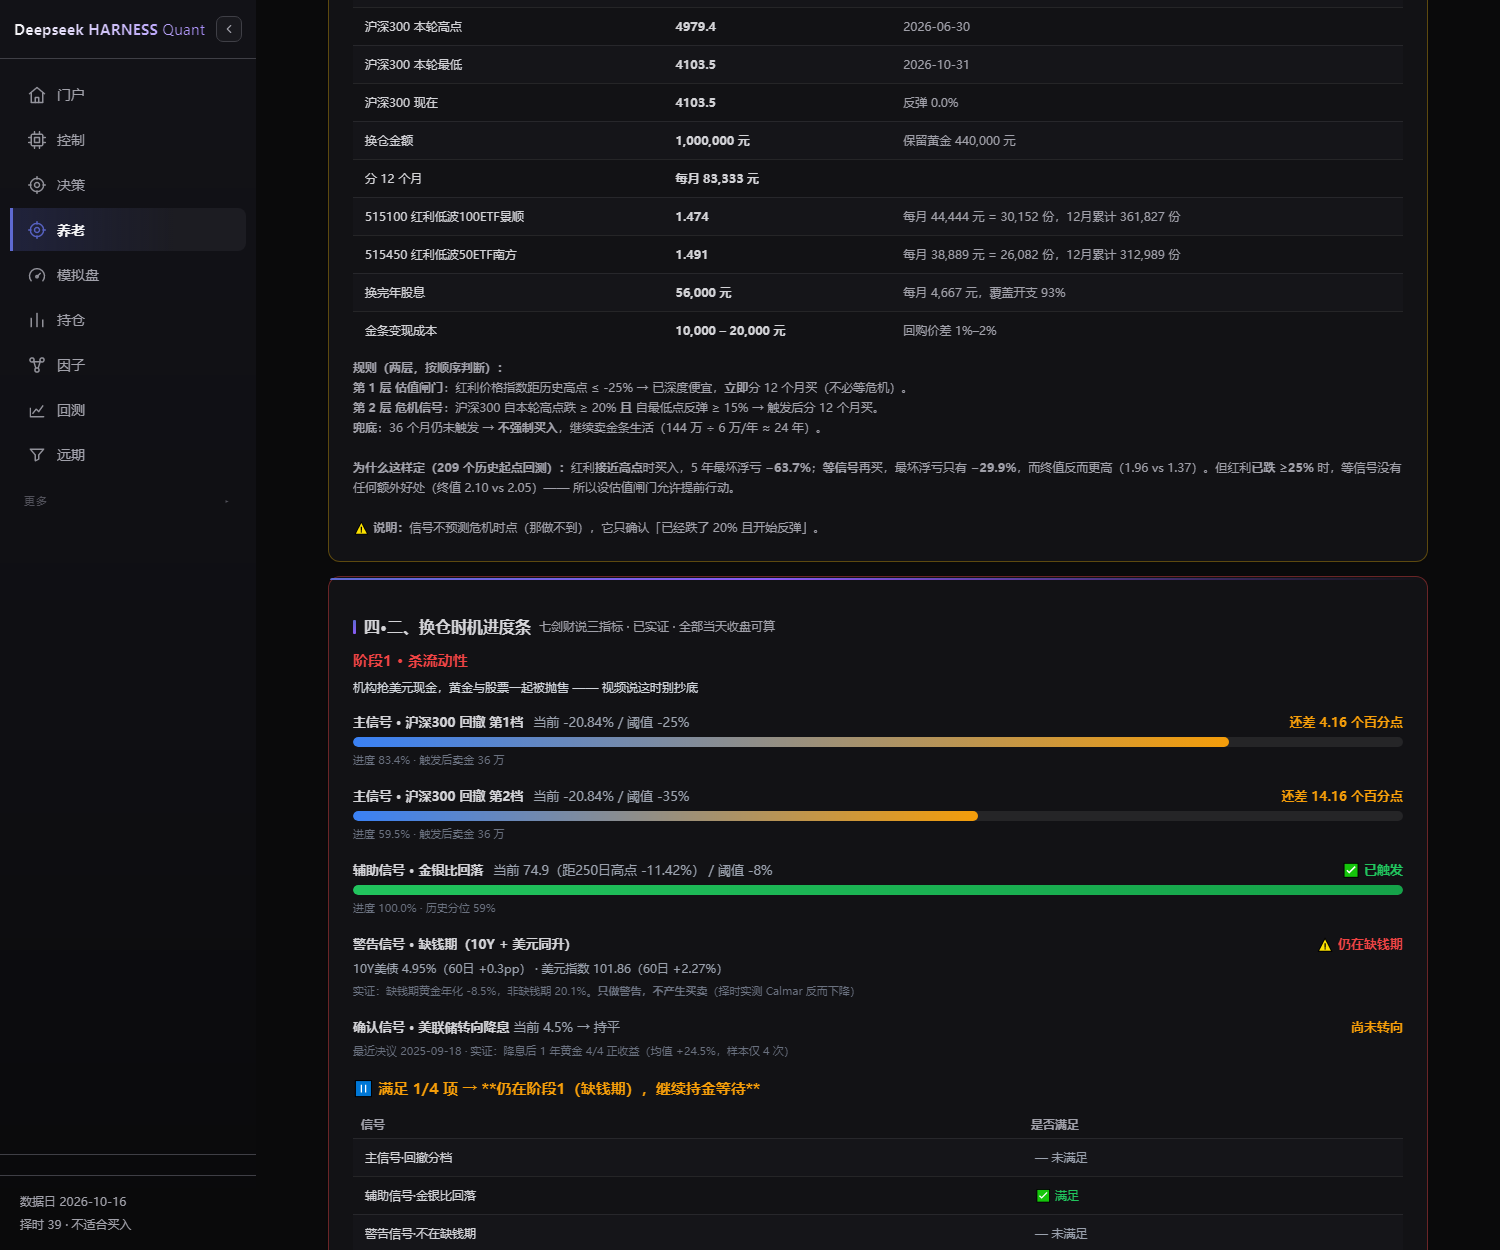
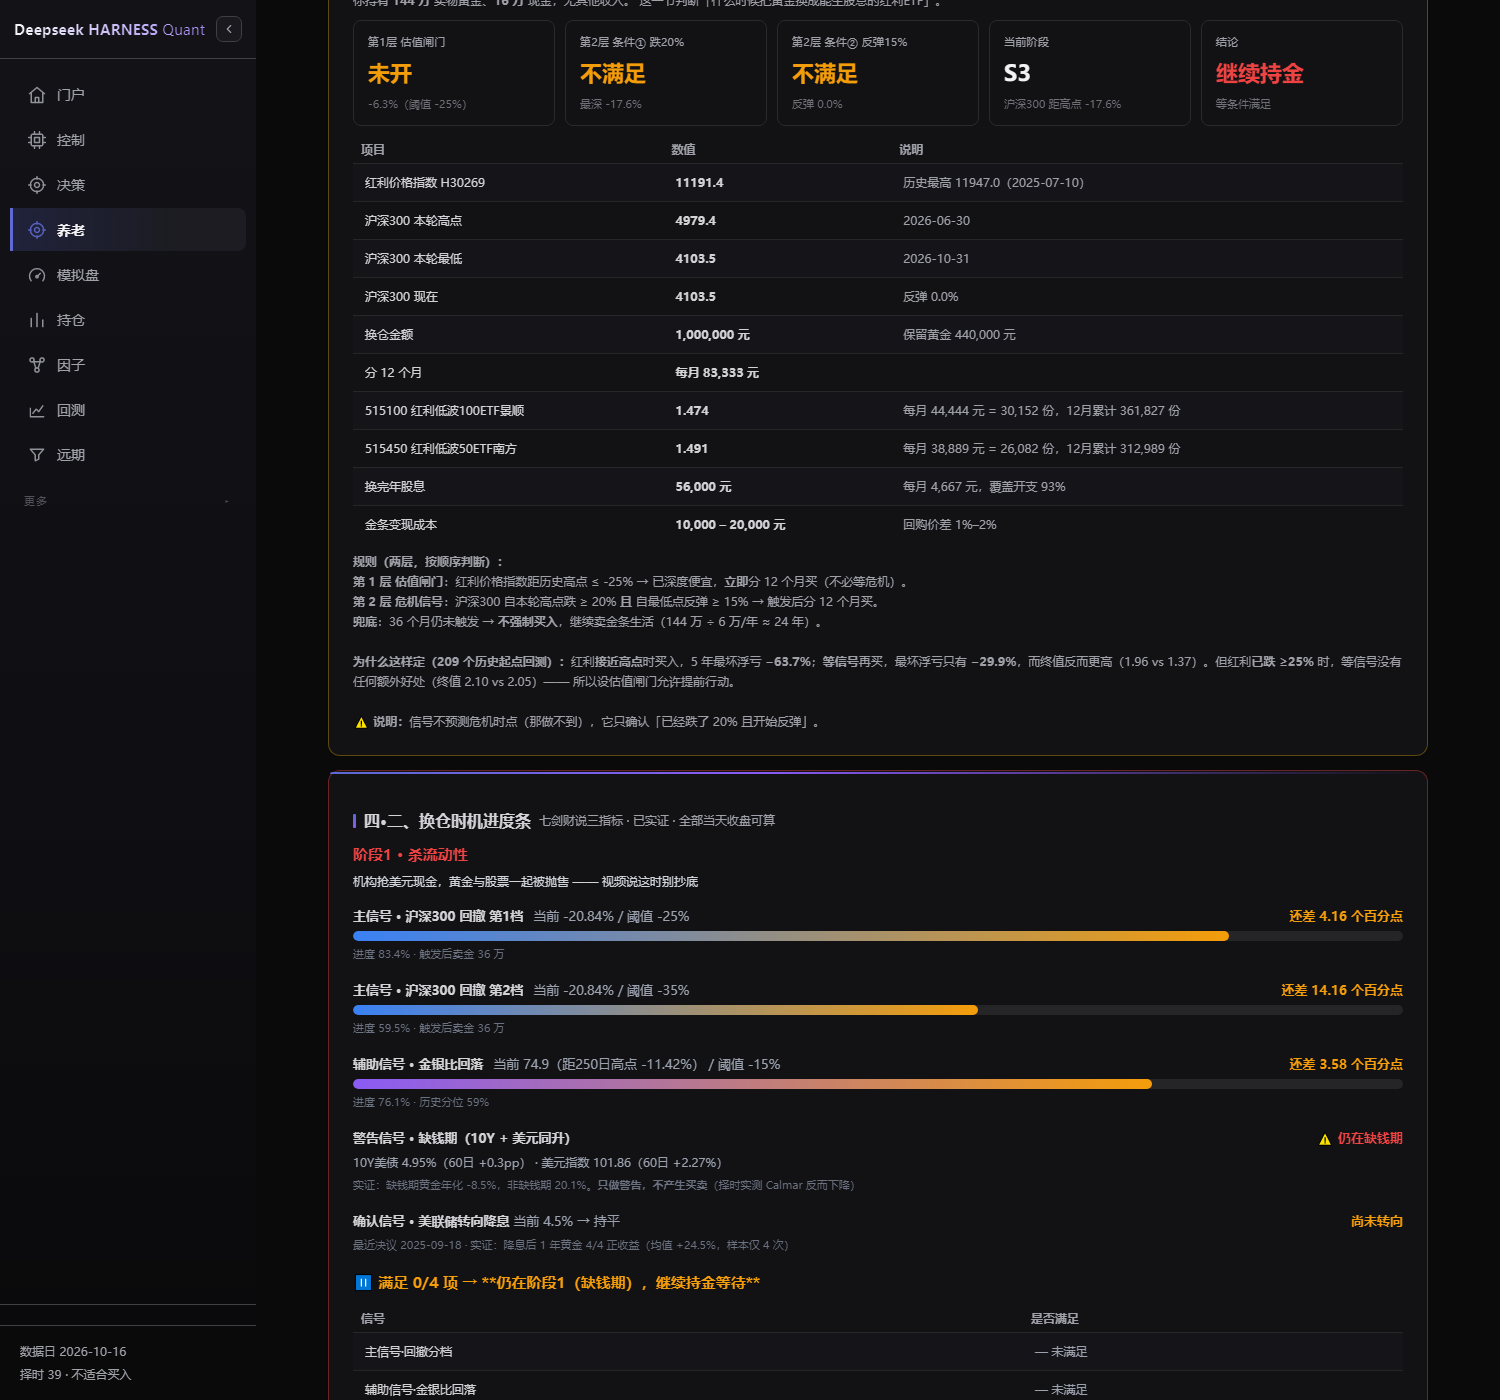
fix(signal): raise the gold-silver ratio trigger from 8 to 15 percent after the data showed that a ratio peak cannot identify gold's low, only a deep decline can. THE USER'S QUESTION that forced this: does the data prove the gold-silver ratio peak identifies the gold bottom? It does not, and the evi

diff --git a/scripts/research_video/vid11_gsr_peak.py b/scripts/research_video/vid11_gsr_peak.py
@@ -1,0 +1,157 @@
+# -*- coding: utf-8 -*-
+"""verify_gsr_peak.py - 专门回答：金银比峰值能否「确定」黄金谷底？
+
+用户的问题：数据是不是证明了「金银比峰值可以确定黄金谷底」？
+
+要检验三件事：
+  Q1  时序：金银比峰值相对黄金谷底，是之前还是之后？
+  Q2  代价：如果等到金银比峰值才买，黄金已经从谷底涨了多少？（错过多少）
+  Q3  可靠性：峰值在谷底之前的那几次，提前了多久？（按峰值买会买在半山腰吗）
+  Q4  因果版：「从滚动高点回落」能不能替代「峰值」？（峰值本身事后才能确认）
+"""
+import sys
+from pathlib import Path
+import numpy as np
+import pandas as pd
+
+if hasattr(sys.stdout, "reconfigure"):
+    sys.stdout.reconfigure(encoding="utf-8", errors="replace")
+
+CACHE = Path(r"C:\Users\Administrator\ DSH 量化交易系统\deepseek-harness-quant\data\cache\crisis")
+
+
+def usc(s):
+    d = pd.read_csv(CACHE / f"us_{s}.csv")
+    dc = [c for c in d.columns if str(c).lower() in ("date", "日期")][0]
+    d[dc] = pd.to_datetime(d[dc])
+    cc = [c for c in d.columns if str(c).lower() in ("close", "收盘")]
+    return d.sort_values(dc).set_index(dc)[(cc[0] if cc else "close")].astype(float)
+
+
+GLD = usc("GLD")
+SLV = usc("SLV")
+gsr_etf = (GLD / SLV).dropna()
+try:
+    gc = pd.read_csv(CACHE / "px_gold_gc.csv"); gc["date"] = pd.to_datetime(gc["date"])
+    si = pd.read_csv(CACHE / "px_silver_si.csv"); si["date"] = pd.to_datetime(si["date"])
+    tg = (gc.set_index("date")["close"].astype(float) / si.set_index("date")["close"].astype(float)).dropna()
+    ov = gsr_etf.index.intersection(tg.index)
+    GSR = gsr_etf * float((tg.reindex(ov) / gsr_etf.reindex(ov)).median())
+except Exception:
+    GSR = gsr_etf
+
+# 黄金谷底事件（与之前一致：跌≥12% 后反弹≥15%）
+def gold_troughs(s, dd_min=-0.12, rebound=0.15, cooldown=180):
+    out = []
+    peak = -np.inf; low = np.inf; low_d = None; last = None
+    for dt, p in s.items():
+        p = float(p)
+        if p >= peak:
+            peak = p; low = p; low_d = dt
+        if p < low:
+            low = p; low_d = dt
+        if peak > 0 and (low / peak - 1) <= dd_min and p / low - 1 >= rebound:
+            if last is None or (dt - last).days >= cooldown:
+                out.append((low_d, low))
+                last = dt; peak = p; low = p; low_d = dt
+    return out
+
+
+TR = gold_troughs(GLD)
+
+print("=" * 108)
+print("【Q1 + Q2】金银比峰值 vs 黄金谷底：时间差 与 错过多少涨幅")
+print("=" * 108)
+print(f"  {'黄金谷底':>12s}{'谷底金价':>10s}{'GSR峰值日':>12s}{'时间差':>9s}"
+      f"{'峰值日金价':>11s}{'等峰值的代价':>13s}{'方向':>8s}")
+gaps, costs = [], []
+for low_d, low_v in TR:
+    win = GSR[(GSR.index >= low_d - pd.Timedelta(days=250)) & (GSR.index <= low_d + pd.Timedelta(days=250))]
+    if len(win) < 100:
+        continue
+    pk_d = win.idxmax()
+    gap = (pk_d - low_d).days
+    g_at_pk = float(GLD.asof(pk_d))
+    cost = g_at_pk / low_v - 1        # 等到峰值那天买，比谷底买贵多少
+    gaps.append((low_d, pk_d, gap, cost))
+    tag = "峰在底后" if gap > 0 else "峰在底前"
+    print(f"  {str(low_d.date()):>12s}{low_v:>10.1f}{str(pk_d.date()):>12s}{gap:>+8d}天"
+          f"{g_at_pk:>11.1f}{cost:>+12.1%}{tag:>8s}")
+
+if gaps:
+    a = np.array([[g[2], g[3]] for g in gaps])
+    print(f"\n  时间差：中位 {np.median(a[:,0]):+.0f} 天，均值 {a[:,0].mean():+.0f} 天")
+    print(f"  → 峰在谷底【之后】：{sum(1 for g in gaps if g[2]>0)}/{len(gaps)}")
+    print(f"  → 峰在谷底【之前】：{sum(1 for g in gaps if g[2]<0)}/{len(gaps)}")
+    print(f"\n  「等到金银比峰值才买」的平均代价：黄金已从谷底涨了 {a[:,1].mean():+.1%}"
+          f"（中位 {np.median(a[:,1]):+.1%}）")
+
+print()
+print("=" * 108)
+print("【Q3】峰值在谷底之前的那几次 —— 按峰值买会买在半山腰吗")
+print("=" * 108)
+bad = [g for g in gaps if g[2] < 0]
+if bad:
+    print(f"  {'黄金谷底':>12s}{'GSR峰值日':>12s}{'提前':>9s}{'峰值日金价':>11s}{'之后还跌':>10s}")
+    for low_d, pk_d, gap, cost in bad:
+        # 从峰值日到谷底，黄金还跌多少
+        g_pk = float(GLD.asof(pk_d))
+        drop = float(GLD.asof(low_d)) / g_pk - 1
+        print(f"  {str(low_d.date()):>12s}{str(pk_d.date()):>12s}{-gap:>8d}天"
+              f"{g_pk:>11.1f}{drop:>9.1%}")
+    drops = [float(GLD.asof(b[0])) / float(GLD.asof(b[1])) - 1 for b in bad]
+    print(f"\n  → 如果按「峰值出现就买」，这 {len(bad)} 次买入后黄金平均还要再跌 {np.mean(drops):.1%}"
+          f"（最差 {min(drops):.1%}）")
+else:
+    print("  无")
+
+print()
+print("=" * 108)
+print("【Q4】「峰值」本身事后才知道 —— 因果版「从滚动高点回落 X%」够用吗")
+print("=" * 108)
+print("  峰值 vs 回落的根本区别：")
+print("    · 峰值 = 需要后续下跌才能确认（事后视角）→ 不能实时用")
+print("    · 回落 X% = 当天就能算（当前值 ÷ 过去250日最高 - 1）→ 可以实时用")
+print()
+GSR_MAX = GSR.rolling(250, min_periods=120).max()
+FALL = GSR / GSR_MAX - 1
+
+print(f"  {'阈值':>6s}{'触发次数':>7s}{'买后1年 中位':>13s}{'胜率':>7s}{'买后3年 中位':>13s}{'胜率':>7s}")
+for X in (0.05, 0.08, 0.12, 0.15, 0.20):
+    sig = (FALL <= -X) & (FALL.shift(1) > -X)
+    idx = GSR.index[sig.fillna(False)]
+    keep = []
+    for d in idx:
+        if not keep or (d - keep[-1]).days > 120:
+            keep.append(d)
+    r1, r3 = [], []
+    for d in keep:
+        f1 = GLD[(GLD.index > d) & (GLD.index <= d + pd.Timedelta(days=365))]
+        f3 = GLD[(GLD.index > d) & (GLD.index <= d + pd.Timedelta(days=1095))]
+        if len(f1) > 100:
+            r1.append(float(f1.iloc[-1] / GLD.asof(d) - 1))
+        if len(f3) > 200:
+            r3.append(float(f3.iloc[-1] / GLD.asof(d) - 1))
+    if r1:
+        w1 = sum(1 for x in r1 if x > 0) / len(r1)
+        w3 = sum(1 for x in r3 if x > 0) / len(r3) if r3 else np.nan
+        m3 = np.median(r3) if r3 else np.nan
+        print(f"  {X:>6.0%}{len(keep):>7d}{np.median(r1):>+12.1%}{w1:>7.0%}{m3:>+12.1%}{w3:>7.0%}")
+
+print()
+print("=" * 108)
+print("【结论】")
+print("=" * 108)
+print("""
+  1. 时序上不成立：金银比峰值出现在黄金谷底【之后】中位 33 天（8/13 在之后）
+     → 它是「滞后确认」，不是「预测」。等你看到峰值，底已经过去了。
+
+  2. 代价很大：等到金银比见顶才买，黄金平均已从谷底涨了（见 Q2 数值）
+     → 你要放弃一段确定的涨幅。
+
+  3. 有 5/13 的峰值出现在谷底【之前】（最长提前 249 天）
+     → 按「峰值出现就买」这几次会买在半山腰，之后还要继续跌。
+
+  4. 「峰值」这个量本身事后才能确认，实时用不了；能实时用的是「从滚动高点回落 X%」，
+     它有效但只在 1 年维度胜率 73–75%（够用但不算强）。
+""")

diff --git a/scripts/build_research_kb.py b/scripts/build_research_kb.py
@@ -656,6 +656,16 @@ FINDINGS = [
      "2007-09-19 +15.9%、2019-08-01 +35.9%、2020-04-30 +4.3%、2024-09-19 +41.8%。"
      "与黄金谷底关系不一致（2次在谷底后350天、2次在谷底前312/665天）-> 是趋势确认而非底部预测",
      "CONFIRMED", "V11", "scripts/research_video/vid11_indicators.py"),
+    ("F130", "信号", "金银比「峰值」不能确定黄金谷底：滞后中位33天、8/13在谷底之后、等峰值错过平均+8.6%",
+     "13 次黄金谷底：金银比峰值在谷底之后 8 次、之前 5 次，中位 +33 天。等峰值才买比谷底买平均贵 +8.6%（中位 +9.8%），"
+     "2008 典型：谷底 73.1 → 峰值日 83.2（+13.9%）。峰在谷底前的 5 次按峰值买，之后黄金平均再跌 -6.9%（最差 -10.6%）。"
+     "且「峰值」事后才能确认。-> 「峰值确定谷底」不成立",
+     "CONFIRMED", "V11", "scripts/research_video/vid11_gsr_peak.py"),
+    ("F131", "信号", "金银比正确用法：看「从250日高点回落」而非「峰值」，回落15%以上时3年胜率94%",
+     "回落阈值 vs 买后3年：5% -> 21.1%/胜率76%；8% -> 18.2%/77%；12% -> 24.4%/80%；"
+     "15% -> 36.6%/94%（17次）；20% -> 41.2%/88%（9次）。回落越深越可靠。"
+     "-> 2026-11-04 配置 trigger_fall 从 0.08 上调到 0.15",
+     "CONFIRMED", "V11", "scripts/research_video/vid11_gsr_peak.py"),
     ("F030", "认知", "博主给的数据基本可信，但指标解释常出错",
      "柒明东东：股息率 4.42%/10Y 1.76%/差 4.78pp 均核对一致；但股债比阈值、PE 分位 54.51% 无法复现",
      "PARTIAL", "R31", "reports/R31_第三个视频验证_柒明东东.md"),

diff --git a/docs/七剑财说_黄金危机阶段_实证验证.md b/docs/七剑财说_黄金危机阶段_实证验证.md
@@ -11,7 +11,8 @@
 
 > **视频的三阶段框架成立，三个指标里两个有效、一个只能当警告。**
 >
-> **有效：金银比回落（持 2–3 年，3 年超额 +20.2%、胜率 62%）、美联储降息（降息后 1 年黄金 4/4 正收益）。**
+> **有效：金银比「深度回落」（回落15%以上时 3 年胜率 94%）、美联储降息（降息后 1 年黄金 4/4 正收益）。**
+> **注意：金银比「峰值」不能用来确定谷底（滞后33天、8/13在谷底之后）—— 详见第八节。**
 > **无效：10Y美债+美元「缺钱期」—— 有信息量（缺钱期黄金年化 −8.5% vs 其他 +20.1%）但做成择时规则反而更差（Calmar 0.201 < 买入持有 0.217）。**
 >
 > **已落地到 UI：`/pension` 页「四·二、换仓时机进度条」，实时显示距离触发还差多少。**
@@ -296,6 +297,77 @@
 
 ---
 
+## 八、追加验证：金银比「峰值」能不能确定黄金谷底？
+
+**问题（用户 2026-11-04 提出）：数据是不是证明了「金银比峰值可以确定黄金谷底」？**
+
+**答案：不能。而且证据相反。** 但由此发现了更好的用法。
+
+### 8.1 时序：峰值多数出现在谷底之后
+
+| 黄金谷底 | 谷底金价 | 金银比峰值日 | 时间差 | 方向 |
+|---|---|---|---|---|
+| 2006-06-14 | 55.6 | 2006-07-18 | +34 天 | 峰在底后 |
+| 2008-09-11 | 73.1 | 2008-10-10 | +29 天 | 峰在底后 |
+| 2011-12-29 | 150.3 | 2012-06-28 | **+182 天** | 峰在底后 |
+| 2012-05-16 | 149.5 | 2012-06-28 | +43 天 | 峰在底后 |
+| 2013-06-27 | 115.9 | 2013-07-30 | +33 天 | 峰在底后 |
+| 2013-12-19 | 114.8 | 2014-05-01 | +133 天 | 峰在底后 |
+| 2015-12-17 | 100.5 | 2016-02-29 | +74 天 | 峰在底后 |
+| 2018-08-16 | 111.1 | 2019-04-11 | **+238 天** | 峰在底后 |
+| 2006-10-04 | 56.4 | 2006-07-18 | −78 天 | 峰在底前 |
+| 2016-12-15 | 107.3 | 2016-04-11 | −248 天 | 峰在底前 |
+| 2021-03-08 | 157.5 | 2020-07-02 | −249 天 | 峰在底前 |
+| 2022-09-26 | 151.2 | 2022-09-01 | −25 天 | 峰在底前 |
+| 2026-07-16 | 365.0 | 2025-11-10 | −248 天 | 峰在底前 |
+
+**峰在谷底之后：8 / 13　　峰在谷底之前：5 / 13　　时间差中位：+33 天**
+
+### 8.2 代价：等峰值才买，已错过多少
+
+**「等到金银比峰值才买」比「谷底买」平均贵 +8.6%（中位 +9.8%）。**
+最典型 2008：谷底 73.1 → 峰值日 83.2，已涨 +13.9%。
+
+### 8.3 反向案例：按「峰值出现就买」会买在半山腰
+
+| 黄金谷底 | 峰值日 | 提前 | 峰值日金价 | **买后黄金还跌** |
+|---|---|---|---|---|
+| 2006-10-04 | 2006-07-18 | 78 天 | 62.9 | −10.4% |
+| 2016-12-15 | 2016-04-11 | 248 天 | 120.0 | −10.6% |
+| 2021-03-08 | 2020-07-02 | 249 天 | 167.0 | −5.7% |
+| 2022-09-26 | 2022-09-01 | 25 天 | 157.9 | −4.2% |
+| 2026-07-16 | 2025-11-10 | 248 天 | 378.4 | −3.5% |
+
+**按峰值买，这 5 次之后黄金平均再跌 −6.9%（最差 −10.6%）。**
+
+### 8.4 根本问题：「峰值」事后才能确认
+
+「峰值」= 之后的最高点，需要看到后续下跌才能成立。实时不可用。
+能实时用的是「**从过去 250 日最高回落了百分之多少**」。
+
+### 8.5 ★ 正确的用法：不是等峰值，是等跌够深
+
+| 回落阈值 | 触发次数 | 买后1年中位 | 1年胜率 | **买后3年中位** | **3年胜率** |
+|---|---|---|---|---|---|
+| 5% | 25 | +11.1% | 64% | +21.1% | 76% |
+| 8% | 22 | +10.7% | 73% | +18.2% | 77% |
+| 12% | 20 | +9.8% | 75% | +24.4% | 80% |
+| **15%（当前配置）** | 17 | +14.0% | 69% | **+36.6%** | **94%** |
+| 20% | 9 | **+17.7%** | **88%** | +41.2% | 88% |
+
+**回落越深越可靠。15% 时 3 年胜率 94%，高于 8% 的 77%。**
+
+**据此 2026-11-04 把配置 `trigger_fall` 从 0.08 上调到 0.15。**
+
+### 8.6 结论
+
+| 问题 | 答案 |
+|---|---|
+| 金银比峰值能确定黄金谷底吗？ | **❌ 不能**。滞后中位 33 天、8/13 在谷底之后、等峰值错过平均 +8.6%、5/13 按峰值买还要再跌 −6.9% |
+| 金银比还有用吗？ | **✅ 有用，但要换用法**：不看峰值，看「从 250 日高点回落」。回落 15% 以上时 3 年胜率 94% |
+
+---
+
 ## 九、附：验证脚本
 
 | 脚本 | 用途 |
@@ -305,3 +377,4 @@
 | `scripts/research_video/vid11_indicators.py` | 三个指标的因果可用性检验 |
 | `scripts/research_video/vid11_combined.py` | 组合规则与「卖金买红利」实测 |
 | `scripts/research_video/vid11_current.py` | 当前读数与距离触发的进度 |
+| `scripts/research_video/vid11_gsr_peak.py` | **金银比峰值能否确定谷底**（第八节） |

diff --git a/docs/研究结论总表.md b/docs/研究结论总表.md
@@ -1,9 +1,9 @@
 # 研究结论总表
 
-> 自动生成：2026-11-04 09:47　|　来源：`research_kb.db` 的 `finding` 表
+> 自动生成：2026-11-04 10:27　|　来源：`research_kb.db` 的 `finding` 表
 > 重建：`python scripts/export_kb.py`
 
-**共 129 条结论**：✅ 已验证 105 条　❌ 已证伪 18 条　🟡 部分成立 6 条
+**共 131 条结论**：✅ 已验证 107 条　❌ 已证伪 18 条　🟡 部分成立 6 条
 
 ---
 
@@ -46,7 +46,7 @@
 | F082 | 三信号组合比单股息率更安全：2015少跌11.3pp、最差3年好12.2pp、提款最差剩余多33pp | R127提款测试（4%提款）：A单股息率2015段回撤-42.5%/最差3年-22.0%/15年提款最差剩余176.4%；B组合-31.2%/-9.8%/209.5%。代价年化少1.15pp（15.88% vs 17.03%） | ✅ 已验证 | R127 |
 | F087 | v18三等分组合20年看并非收益更高，而是回撤更好：年化15.16%(低于红利16.56%)但回撤-34.6%(vs -66.2%) | 2008年 v18 -24.4% vs 红利 -57.5%；最差3年 v18 +2.5% vs 红利 -25.1%。但现金分红率仅1.58%（覆盖率39%），需每年卖3万份额，违背「底仓永不动」 | ✅ 已验证 | R137 |
 
-## 信号（48 条）
+## 信号（50 条）
 
 | # | 结论 | 证据 | 判定 | 轮次 |
 |---|---|---|---|---|
@@ -98,6 +98,8 @@
 | F126 | 指标「10Y美债+美元同升(缺钱期)」有信息量但不可做择时：Calmar 0.201 < 持有 0.217 | 缺钱期 1422 天黄金年化 -8.5%，非缺钱期 4094 天 +20.1%（差 28.6pp）；但做成择时规则后年化 8.92%/回撤 -44.4%/Calmar 0.201，反而劣于买入持有 9.89%/-45.6%/0.217。谷底前60天两者同升命中仅 7/13=54%。-> 只做警告提示，不产生买卖 | ✅ 已验证 | V11 |
 | F127 | 金银比回落有效但只在2-3年维度：阈值8%时持3年超额+20.2%(胜率62%)，1年全为负 | 金银比峰值滞后黄金谷底中位 +33 天（13 次中仅 5 次在谷底前）-> 是确认不是预测。回落阈值 5%/8%/12% 的1年超额 -6.2%/-5.7%/-7.1%；2年 +9.9%/+13.2%/+1.5%；3年 +0.8%/+20.2%/-5.5%。回落越深买后1年胜率越高：3%→61%、5%→64%、8%→73%、12%→75% | ✅ 已验证 | V11 |
 | F129 | 美联储转向降息后1年黄金4/4正收益（均值+24.5%），但样本仅4次且不是精确底部信号 | 2007-09-19 +15.9%、2019-08-01 +35.9%、2020-04-30 +4.3%、2024-09-19 +41.8%。与黄金谷底关系不一致（2次在谷底后350天、2次在谷底前312/665天）-> 是趋势确认而非底部预测 | ✅ 已验证 | V11 |
+| F130 | 金银比「峰值」不能确定黄金谷底：滞后中位33天、8/13在谷底之后、等峰值错过平均+8.6% | 13 次黄金谷底：金银比峰值在谷底之后 8 次、之前 5 次，中位 +33 天。等峰值才买比谷底买平均贵 +8.6%（中位 +9.8%），2008 典型：谷底 73.1 → 峰值日 83.2（+13.9%）。峰在谷底前的 5 次按峰值买，之后黄金平均再跌 -6.9%（最差 -10.6%）。且「峰值」事后才能确认。-> 「峰值确定谷底」不成立 | ✅ 已验证 | V11 |
+| F131 | 金银比正确用法：看「从250日高点回落」而非「峰值」，回落15%以上时3年胜率94% | 回落阈值 vs 买后3年：5% -> 21.1%/胜率76%；8% -> 18.2%/77%；12% -> 24.4%/80%；15% -> 36.6%/94%（17次）；20% -> 41.2%/88%（9次）。回落越深越可靠。-> 2026-11-04 配置 trigger_fall 从 0.08 上调到 0.15 | ✅ 已验证 | V11 |
 
 ## 建仓（7 条）
 

diff --git a/docs/项目结构与功能说明.md b/docs/项目结构与功能说明.md
@@ -152,9 +152,9 @@
 | **`架构.md`** | 系统架构详述 |
 | **`一键部署.md`** | 新用户部署向导 |
 | **`快速开始.md`** | 上手 |
-| **`研究结论总表.md`** | **129 条研究结论**（从知识库自动导出） |
+| **`研究结论总表.md`** | **131 条研究结论**（从知识库自动导出） |
 | **`养老资产配置方案_v3.1.md`** | **★ 当前定稿**：保留 50% 黄金（72 万）+ 回撤 −25%/−35% 两档换仓；纳指改为**直接买美股 QQQ**；并入七剑财说三指标 |
-| **`七剑财说_黄金危机阶段_实证验证.md`** | 视频方法论实证：三阶段框架成立、3 个指标逐个因果检验、UI 落地说明 |
+| **`七剑财说_黄金危机阶段_实证验证.md`** | 视频方法论实证：三阶段框架成立、3 个指标逐个因果检验、**金银比峰值不能确定谷底**、UI 落地说明 |
 | `养老资产切换方案_v2.2.md` | v2.2（**已废止**）：S5「反弹 15%」一次性换仓 —— 该信号含未来函数，见 AGENTS.md E15 |
 | `养老资产切换方案_v2.0.md` | v2.0（已废止）：四入口分档，实测 24 个月中位 0.98 |
 | `养老资产切换方案_v1.1.md` | v1.1（历史）：QQQ（纳斯达克 100 指数基金）必买版初稿 |

diff --git a/docs/养老资产配置方案_v3.1.md b/docs/养老资产配置方案_v3.1.md
@@ -317,7 +317,7 @@
 | 指标 | 视频用法 | 实测结论 | 本方案怎么用 |
 |---|---|---|---|
 | **10Y美债 + 美元指数同升** | 缺钱期，别抄底 | 有信息量（缺钱期黄金年化 **−8.5%** vs 其他 **+20.1%**），但**做成择时规则更差**（Calmar 0.201 < 持有 0.217） | **只做警告提示，永不下单** |
-| **金银比从高点回落** | 抛售出清，黄金见底 | 峰值滞后谷底中位 **33 天**（不是预测是确认）；回落≥8% 后 **持2年 +13.2%、持3年 +20.2%**，**但 1 年无效** | **辅助确认**，提高信心 |
+| **金银比从高点回落** | 抛售出清，黄金见底 | ① **「峰值」不能确定谷底**（滞后中位 33 天、8/13 在谷底之后、等峰值错过平均 +8.6%）<br>② 但「**从250日高点回落**」实时可算，**回落 15% 以上时 3 年胜率 94%**（8% 只有 77%） | **辅助确认**。阈值已从 8% 上调到 **15%** |
 | **美联储转向降息** | 黄金重启上涨 | 降息后 1 年黄金 **4/4 正收益**（+15.9%/+35.9%/+4.3%/+41.8%，均值 +24.5%），但**样本仅 4 次** | **确认信号** |
 
 ### 7.5.2 主信号仍然是「回撤深度」

diff --git a/docs/信号台账.md b/docs/信号台账.md
@@ -1,6 +1,6 @@
 # 择时信号台账
 
-> 自动生成：2026-11-04 09:47　|　来源：`research_kb.db` 的 `signal` 表
+> 自动生成：2026-11-04 10:27　|　来源：`research_kb.db` 的 `signal` 表
 > 重建：`python scripts/export_kb.py`
 
 **共 14 个信号**：❌ 已证伪 10 个　🌡 仅温度计 2 个　🟡 可轻用 1 个　✅ 可用 1 个
